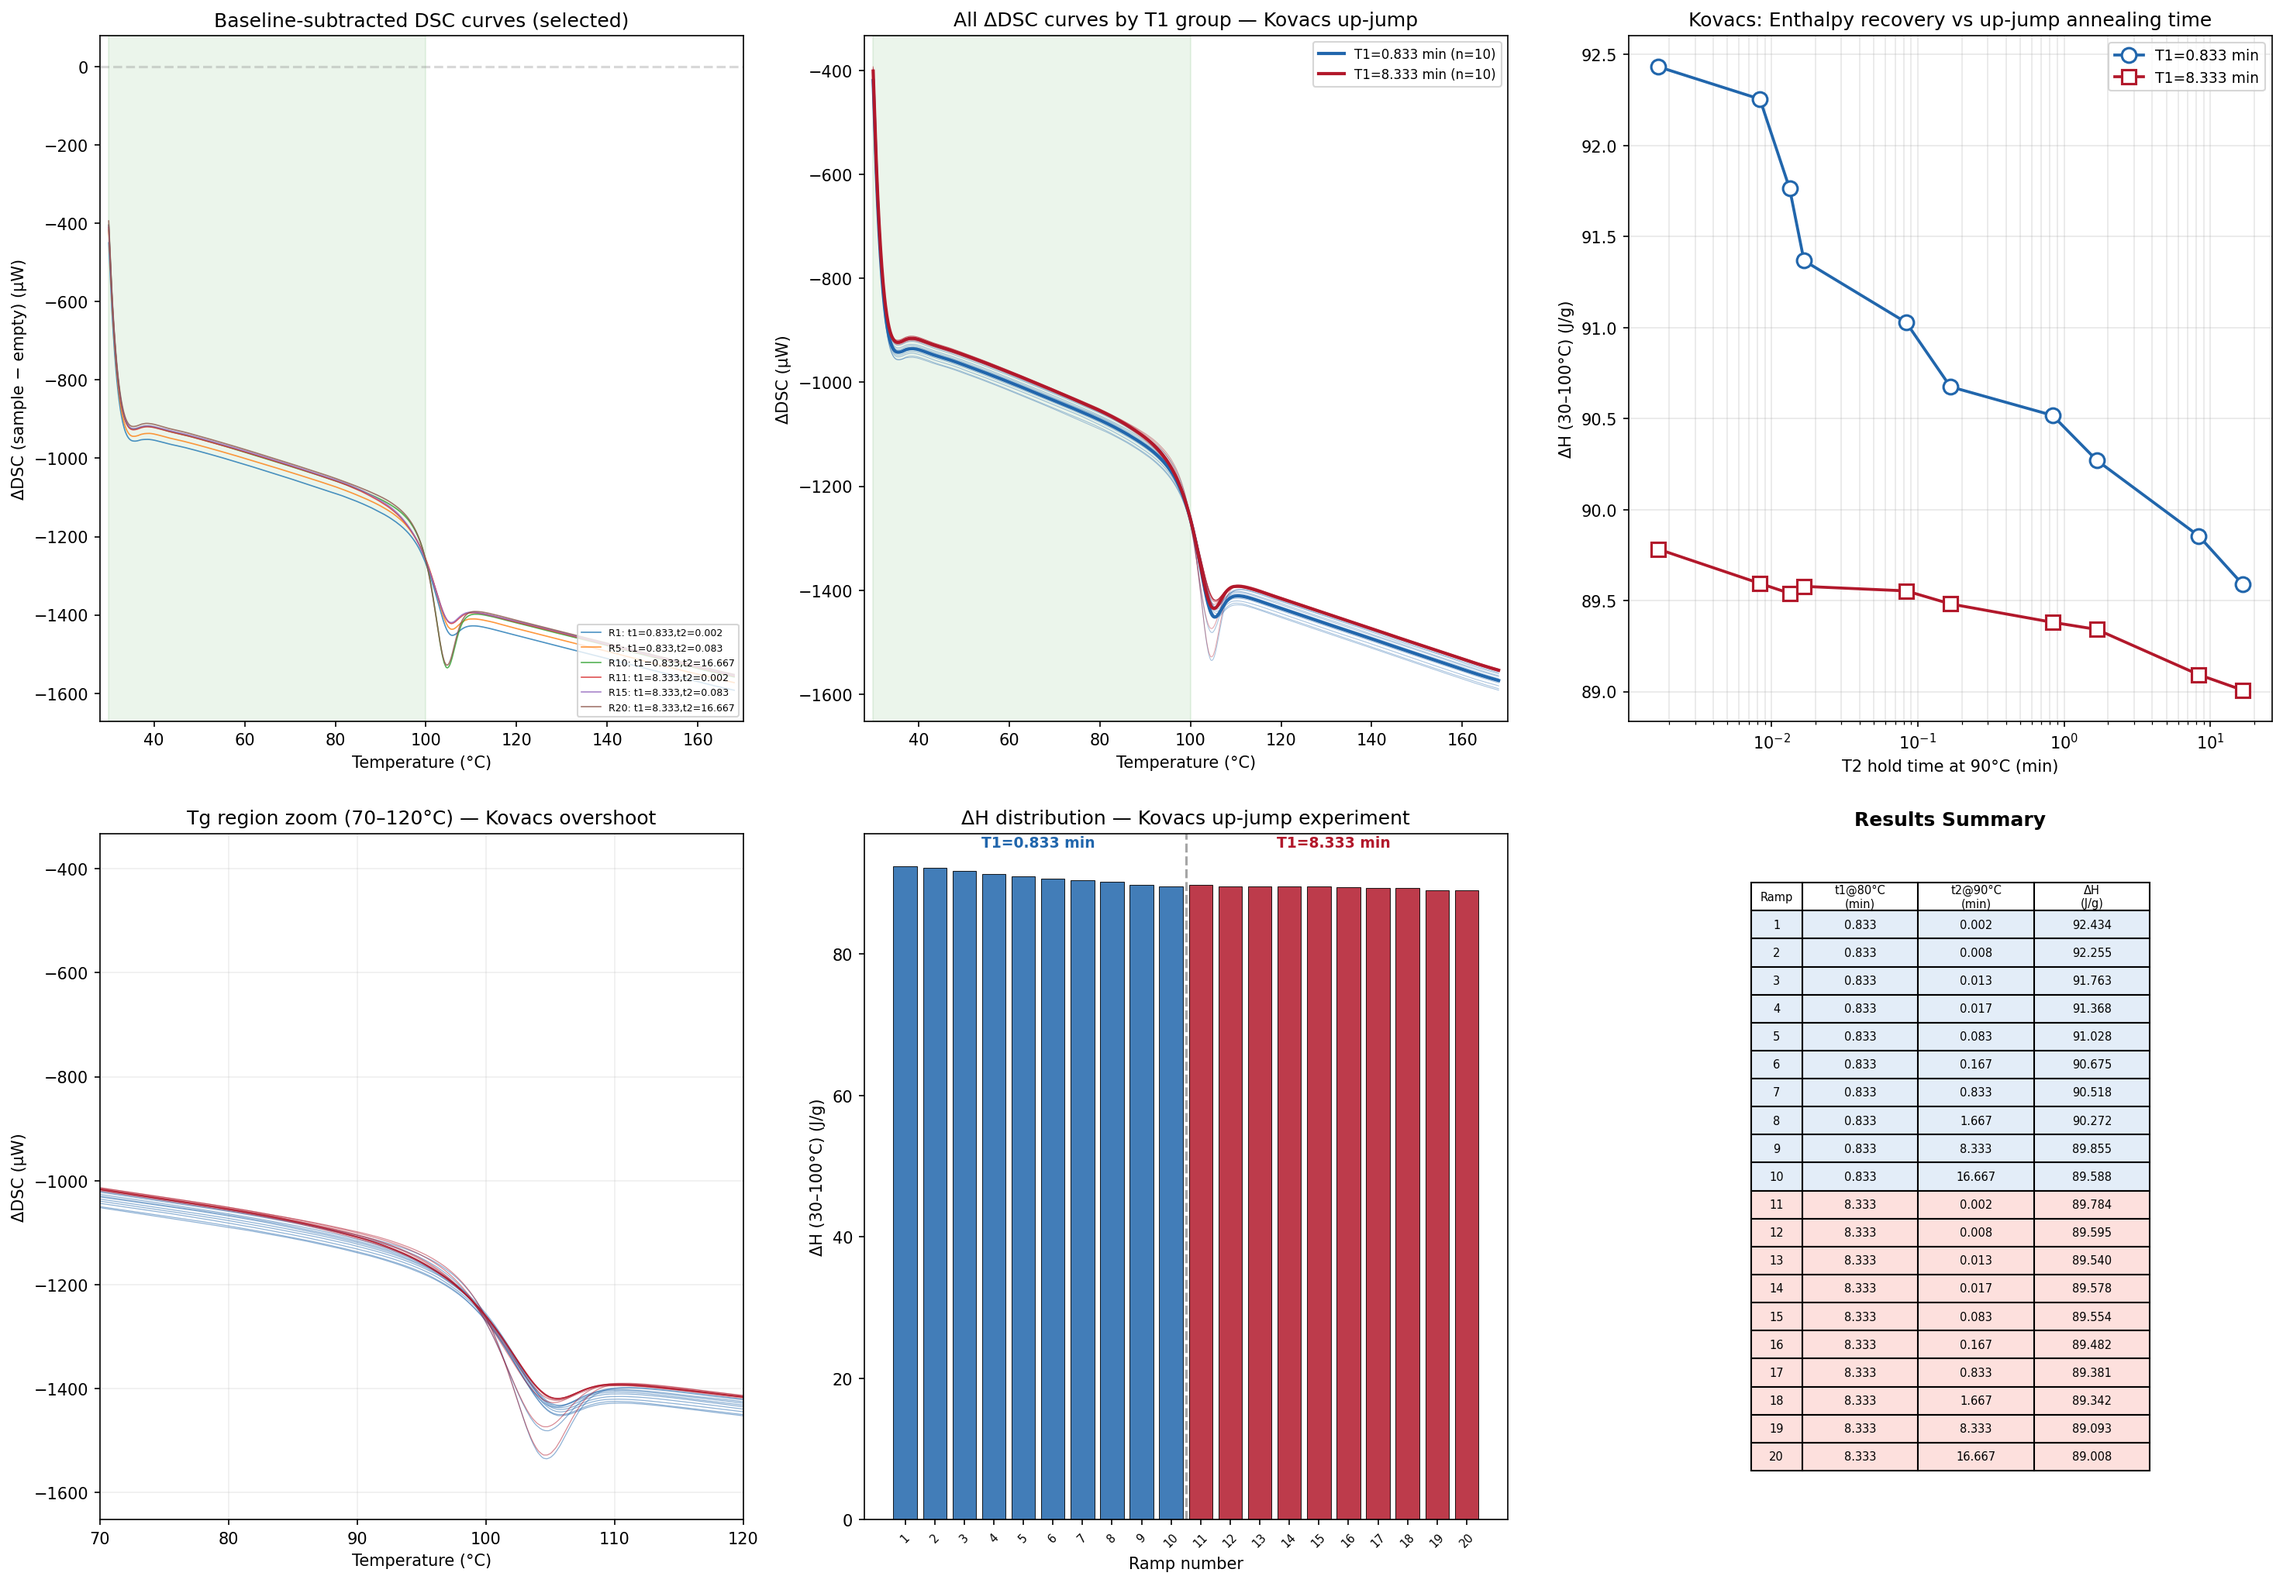
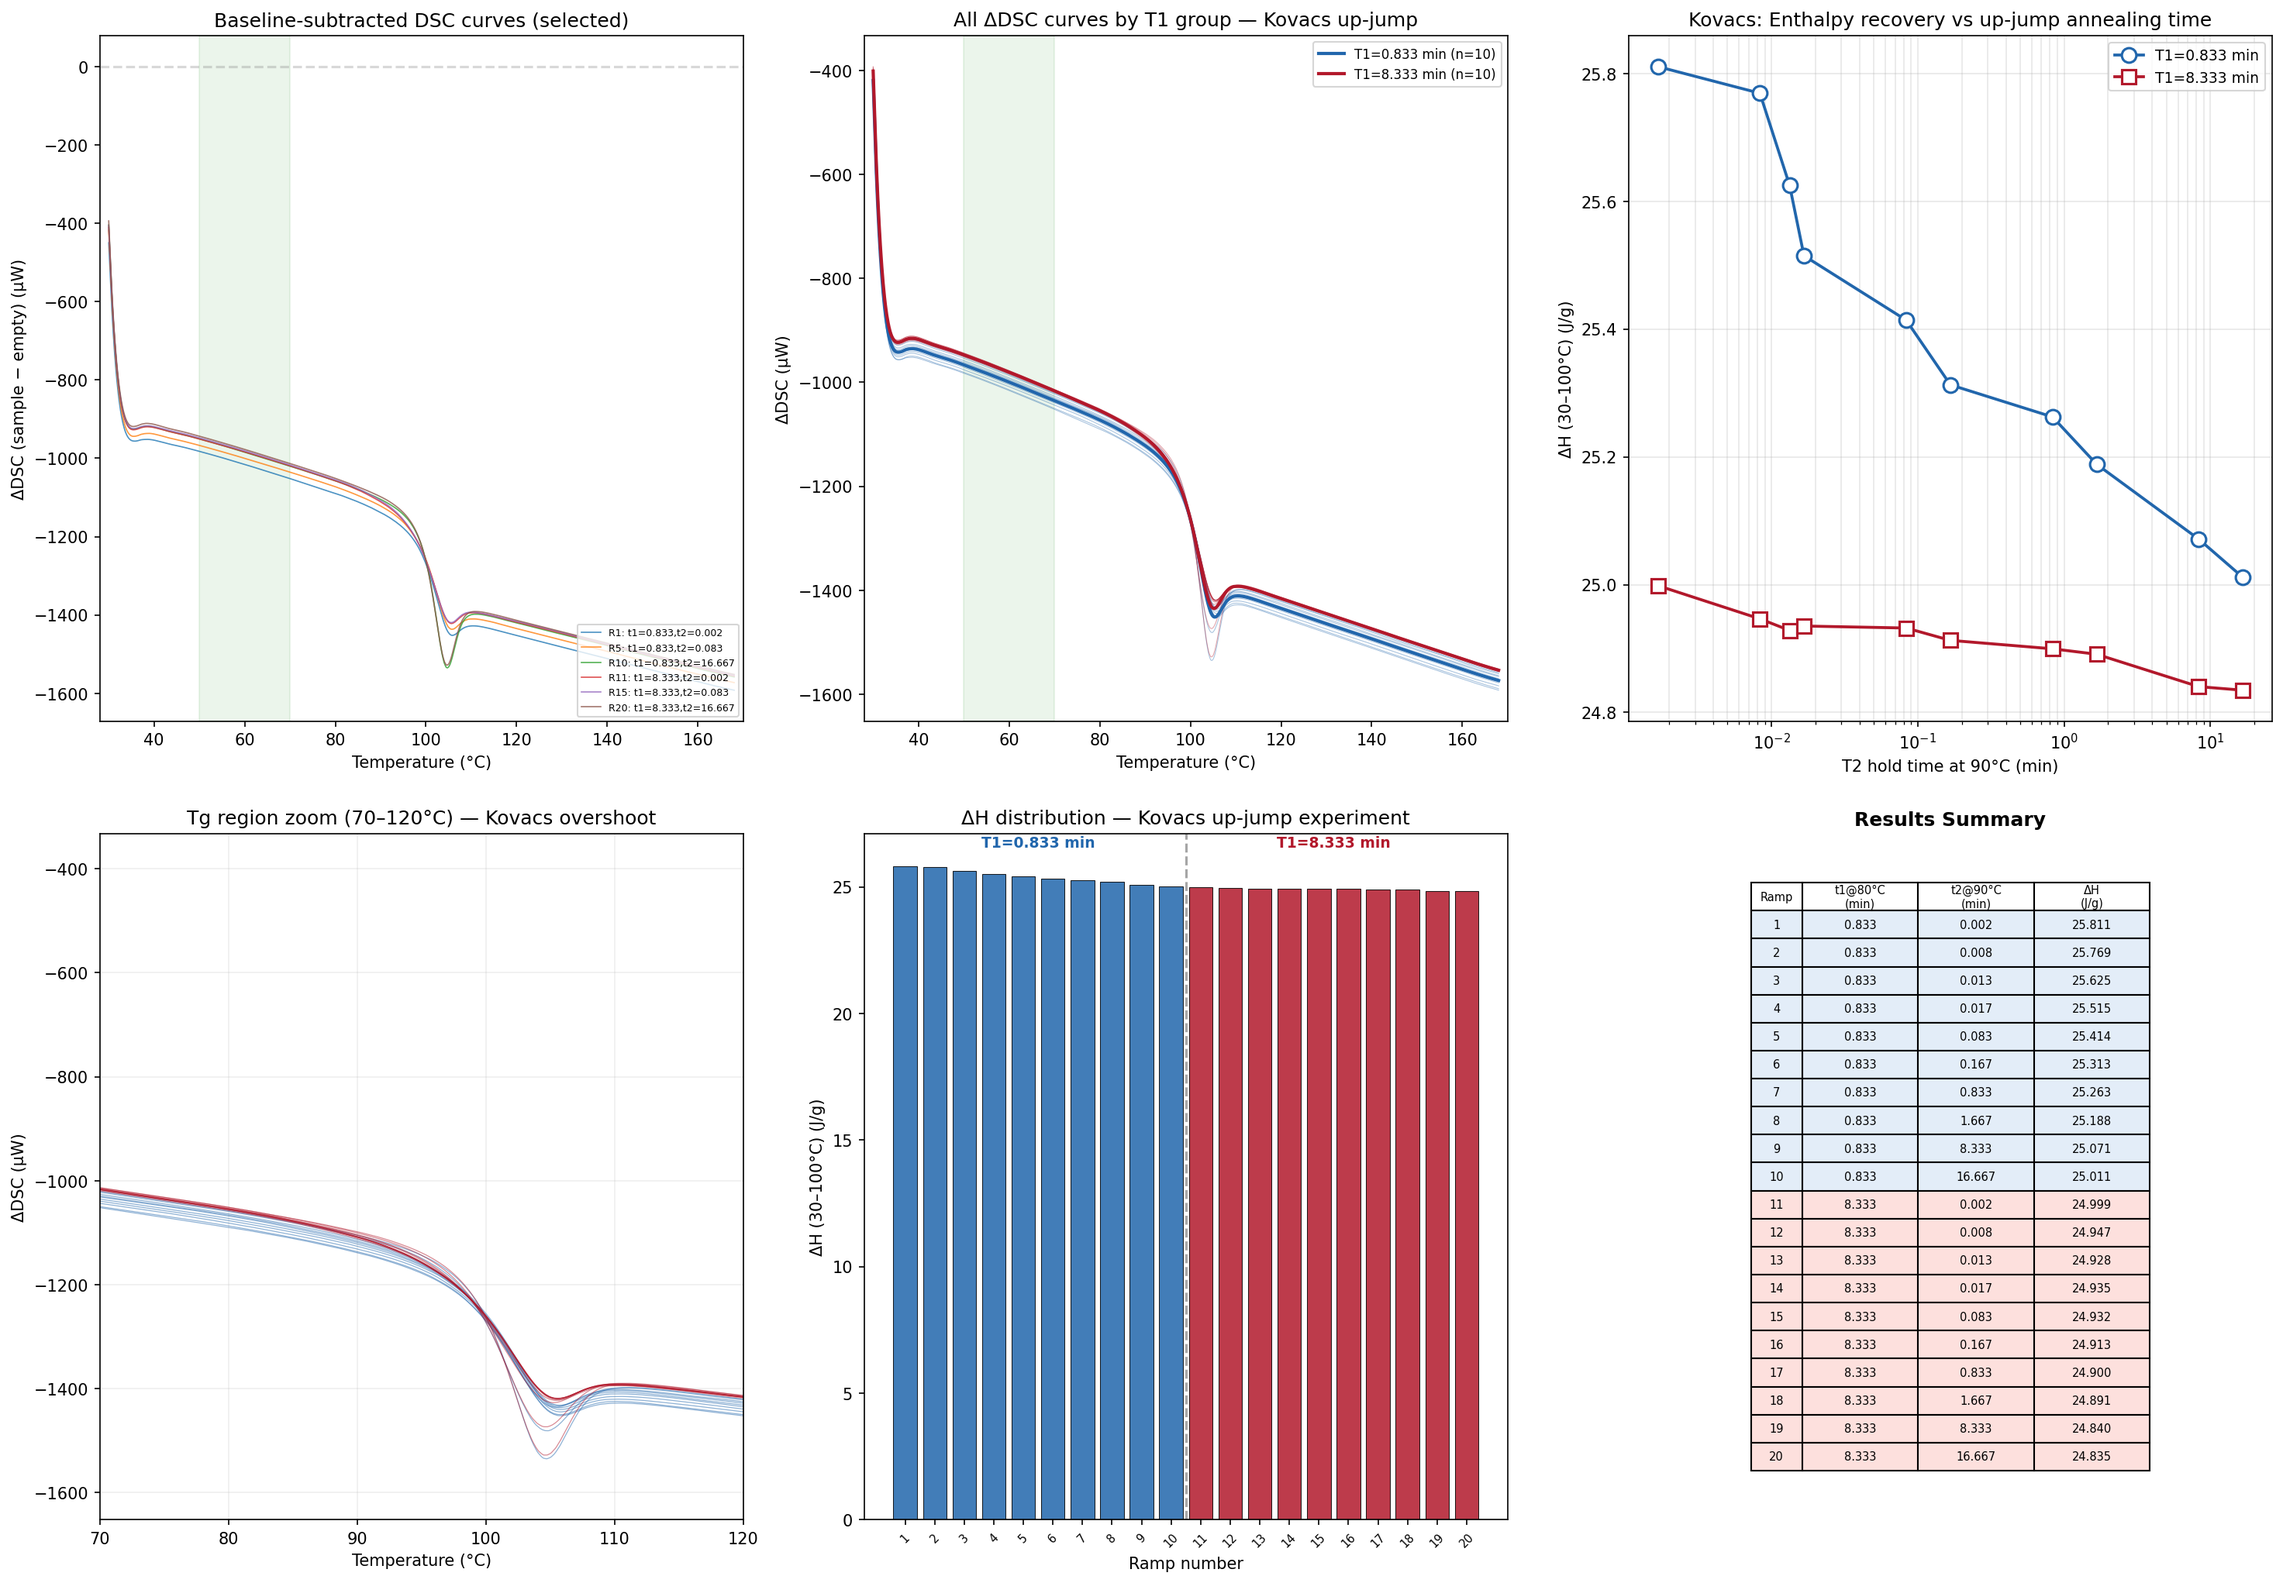
2026-05-12 11:17 - auto commit

diff --git a/src/process_kovacs.py b/src/process_kovacs.py
@@ -24,8 +24,8 @@ DT_DT = 1.0 / BETA   # s/°C
 # ΔH(J/g) = DT_DT / (M_SAMPLE * 1000) * ∫ΔDSC dT  (µW·°C → J/g)
 CONV_FACTOR = DT_DT / (M_SAMPLE * 1000)
 
-T_INT_LOW  = 30
-T_INT_HIGH = 100
+T_INT_LOW  = 50
+T_INT_HIGH = 70
 
 # ── Data loading ──────────────────────────────────────────────────────────
 def load_dsc_simple(filename, sheet=None):
@@ -212,8 +212,15 @@ def main():
         print(f"    Ramp {c['ramp_idx']:2d}: T1(80°C)={c['T1_hold_min']:8.4f} min, "
               f"T2(90°C)={c['T2_hold_min']:8.4f} min")
 
-    # ── 4. Compute ΔH for each ramp ─────────────────────────────────────
-    print(f"\n[3/4] Computing ΔH ({T_INT_LOW}–{T_INT_HIGH}°C) by direct heat-flow integration...")
+    # ── 4. Compute ΔH + Tg overshoot for each ramp ──────────────────────
+    # Tg overshoot: peak of ΔDSC above extrapolated liquid baseline
+    # This is where the Kovacs hump lives
+    T_LIQ_LO = 110  # °C  fit liquid baseline from here
+    T_LIQ_HI = 160  # °C  to here
+    T_TG_LO  = 75   # °C  Tg overshoot region
+    T_TG_HI  = 115  # °C
+
+    print(f"\n[3/4] Computing ΔH ({T_INT_LOW}–{T_INT_HIGH}°C) + Tg overshoot...")
 
     results = []
     dsc_curves = []
@@ -230,23 +237,42 @@ def main():
         # ΔDSC = sample - empty  (µW)
         delta_DSC = DSC_sample_grid - DSC_empty_grid
 
-        # Integrate over 30-100°C
+        # Total ΔH over user integration range
         int_mask = (T_grid >= T_INT_LOW) & (T_grid <= T_INT_HIGH)
         integral = trapezoid(delta_DSC[int_mask], T_grid[int_mask])  # µW·°C
         delta_H = abs(CONV_FACTOR * integral)  # J/g (endo-positive convention)
+
+        # ── Tg overshoot (Kovacs hump metric) ──
+        # Fit liquid baseline: linear fit to ΔDSC in [T_LIQ_LO, T_LIQ_HI]
+        liq_mask = (T_grid >= T_LIQ_LO) & (T_grid <= T_LIQ_HI)
+        coeffs = np.polyfit(T_grid[liq_mask], delta_DSC[liq_mask], 1)
+        liquid_baseline = np.polyval(coeffs, T_grid)
+
+        # Excess ΔDSC = measured - liquid baseline in Tg region
+        tg_mask = (T_grid >= T_TG_LO) & (T_grid <= T_TG_HI)
+        excess_DSC = delta_DSC[tg_mask] - liquid_baseline[tg_mask]
+
+        # Overshoot peak: max excess in Tg region (µW)
+        overshoot_peak = np.max(excess_DSC) if len(excess_DSC) > 0 else 0
+
+        # Excess enthalpy: integrate excess_DSC in Tg region → convert to J/g
+        excess_integral = trapezoid(excess_DSC, T_grid[tg_mask])  # µW·°C
+        excess_enthalpy = abs(CONV_FACTOR * excess_integral)  # J/g
 
         results.append({
             'ramp': ramp_idx + 1,
             'T1_hold_min': cond['T1_hold_min'],
             'T2_hold_min': cond['T2_hold_min'],
             'delta_H_Jg': delta_H,
-            'integral_uWC': integral,
+            'overshoot_peak_uW': overshoot_peak,
+            'excess_enthalpy_Jg': excess_enthalpy,
         })
         dsc_curves.append(delta_DSC)
 
         print(f"    Ramp {ramp_idx+1:2d}: t1={cond['T1_hold_min']:8.4f} min, "
               f"t2={cond['T2_hold_min']:8.4f} min → "
-              f"ΔH = {delta_H:.4f} J/g")
+              f"ΔH = {delta_H:.4f} J/g, overshoot = {overshoot_peak:.1f} µW, "
+              f"ΔH_ex = {excess_enthalpy:.4f} J/g")
 
     results_df = pd.DataFrame(results)
     dsc_curves = np.array(dsc_curves)

diff --git a/.claude/skills/auto-execute.md b/.claude/skills/auto-execute.md
@@ -1,0 +1,20 @@
+---
+name: auto-execute
+description: Auto-execute commands without permission prompts; only ask user for approach decisions
+model: haiku
+---
+
+# Auto Execute Mode
+
+所有命令自动执行，不再询问权限。仅在方案选择/设计决策时咨询用户。
+
+## 行为说明
+
+- **Read / Edit / Write** — 自动执行，不弹窗
+- **Bash 命令** — sandbox 内自动执行（已在 sandbox 配置中限制文件访问范围）
+- **WebSearch / WebFetch** — 自动执行
+- **方案选择** — 当有多种实现方式时，仍然会询问用户偏好
+
+## 依赖配置
+
+此技能依赖 `permissions.defaultMode: "dontAsk"` 和 sandbox 限制，已在 settings.local.json 中配置。
